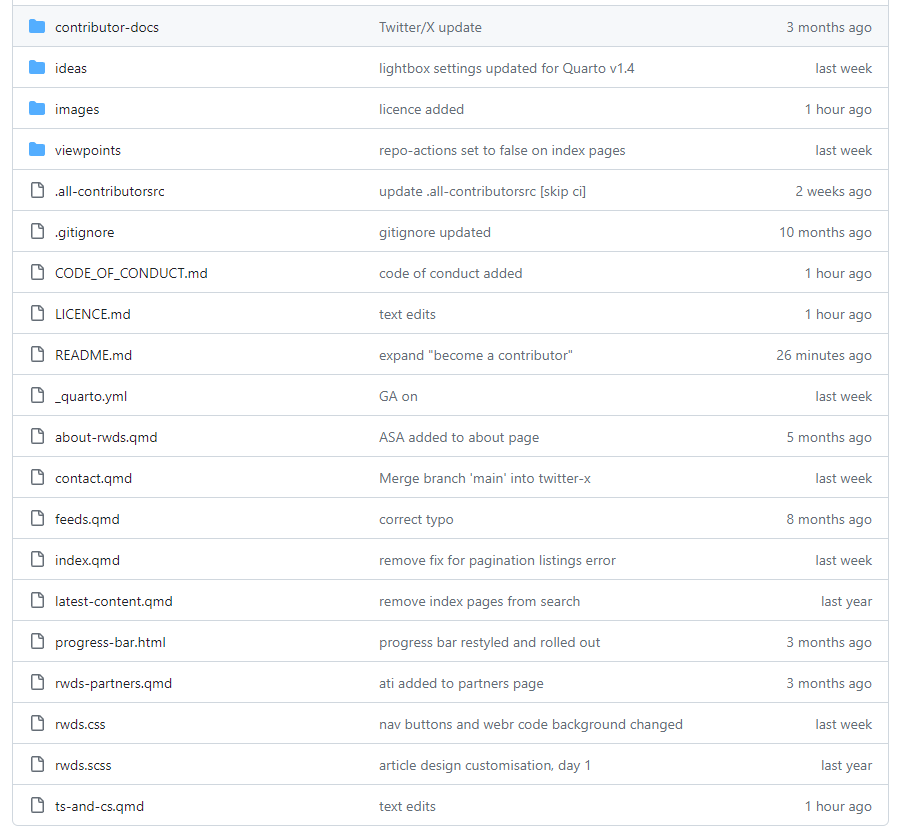
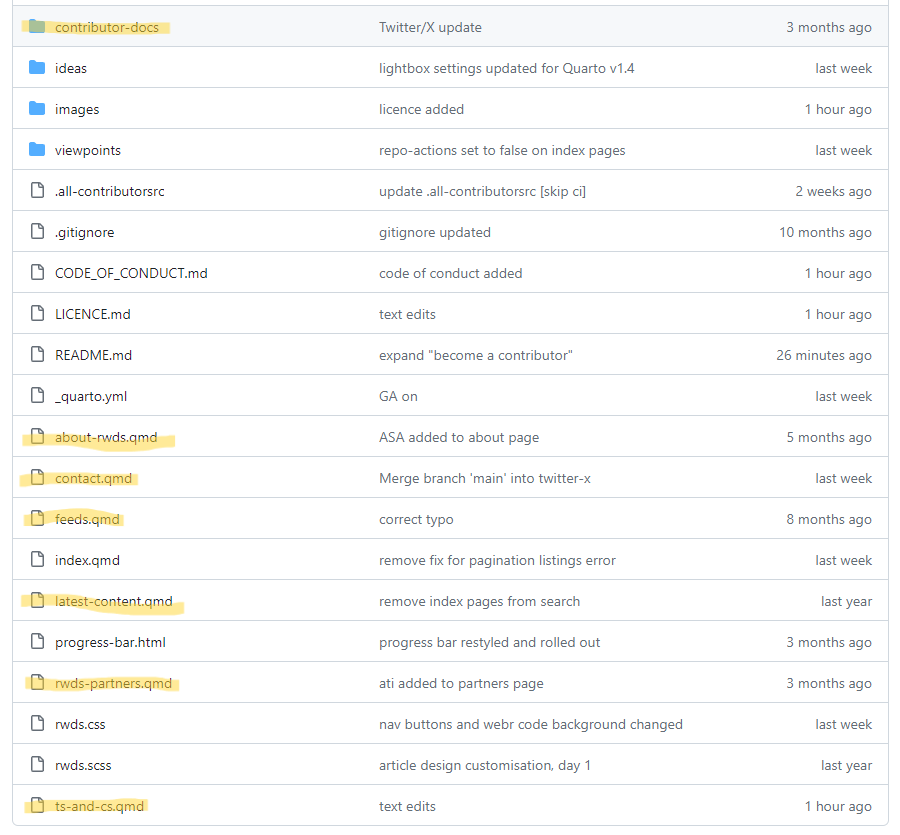
text corrections

diff --git a/README.md b/README.md
@@ -4,7 +4,7 @@ Welcome to the home of [Real World Data Science](https://realworlddatascience.ne
 The site and its content are being created and curated by data science practitioners and leaders with a single goal in mind: to help you deliver high quality, ethical, impactful data science in your workplace.
 
 ## Table of contents
-1. [Contributors](#contributors-✨)
+1. [Contributors](#contributors-)
 2. [Become a contributor](#become-a-contributor)
 3. [Site and repository structure](#site-and-repository-structure)
 4. [Create an article](#create-an-article)
@@ -76,7 +76,7 @@ The call for contributions links to detailed notes for the various types of cont
 While the call for contributions focuses primarily on site content, we also welcome contributions that seek to improve the design and functionality of the site itself. [Real World Data Science](https://realworlddatascience.net/) is built using [Quarto](https://quarto.org/), an open-source scientific and technical publishing system developed by [Posit](https://posit.co/). [We learned a lot from the open-source community in building this site](https://www.youtube.com/watch?v=ncDEqHxMWnE), and we hope we can return the favour in time by expanding the scope of what's possible to build with Quarto.  
 
 ## Site and repository structure
-[Real World Data Science](https://realworlddatascience.net/) basically consists of a homepage, 4 main content sections, and a small collection of documents that introduce the site, its aims, our partners and so on. This structure is reflected in our navigation bar:
+[Real World Data Science](https://realworlddatascience.net/) consists of a homepage, 4 main content sections, and a small collection of documents that introduce the site, its aims, our partners and so on. This structure is reflected in our navigation bar:
 
 ![Real World Data Science nav bar](images/nav-bar.PNG)
 
@@ -87,7 +87,7 @@ Here you can see our four main content sections:
 - Careers
 - Viewpoints
 
-And then there is the "About RWDS" section, which links to all the general information documents.
+And then there is the "About RWDS" section, which links to those documents containing general information about the site.
 
 Our repository structure mirrors the site structure. We have folders for each of our main content sections, highlighted in yellow below:
 
@@ -97,17 +97,17 @@ There is no dedicated folder for the "About RWDS" section. Instead, these docume
 
 ![RWDS repo top-level files](images/repo-top-level-files.PNG)
 
-As you'll see from the above image, all document or article files are in the `.qmd` format. We'll discuss this format in more detail in the [Create an article](#create-an-article) section, but special mention needs to be made to the `index.qmd` file. You will see this file name frequently throughout our repo, and each `index.qmd` file controls a homepage -- either the main site homepage or a section homepage.
+As you'll see from the above image, all documents/article files are in the `.qmd` format. We'll discuss this format in more detail in the [Create an article](#create-an-article) section, but special mention needs to be made to the `index.qmd` file. You will see this file name frequently throughout our repo, and each `index.qmd` file controls a homepage -- either the main site homepage or a section homepage.
 
 Other file types in the root of the repository are:
 
-- `.all-contributorsrc` -- contains the data that populates our [contributor list](#contributors-✨)
+- `.all-contributorsrc` -- contains the data that populates our [contributor list](#contributors-)
 - `.gitignore` -- a list of files or folders that are excluded from version control
 - `.md` -- content files that are published only as part of the RWDS repository, not as part of the site itself
 - `progress-bar.html` -- code that is used across the site to apply a progress bar to published articles
 - `.css` and `.scss` -- files controlling site design and styling
 
-The most important file for understanding and controlling site structure is `_quarto.yml`. From here you set the appearance of the navigation bar and the content it links to; page navigation for sections and sub-sections; the site footer; and basic formatting. Extensive documentation on all aspects of the `_quarto.yml` is available on the [Quarto website](https://quarto.org/docs/websites/).
+The most important file for understanding and controlling site structure is `_quarto.yml`. From here we set the appearance of the navigation bar and the content it links to; page navigation for sections and sub-sections; the site footer; and basic formatting. Extensive documentation on all aspects of the `_quarto.yml` is available on the [Quarto website](https://quarto.org/docs/websites/).
 
 ## Create an article
 Also, be sure to check out the [RWDS_post_template repository](https://github.com/finnoh/RWDS_post_template) if you're thinking of submitting an article. It's a great resource to help you get started.
